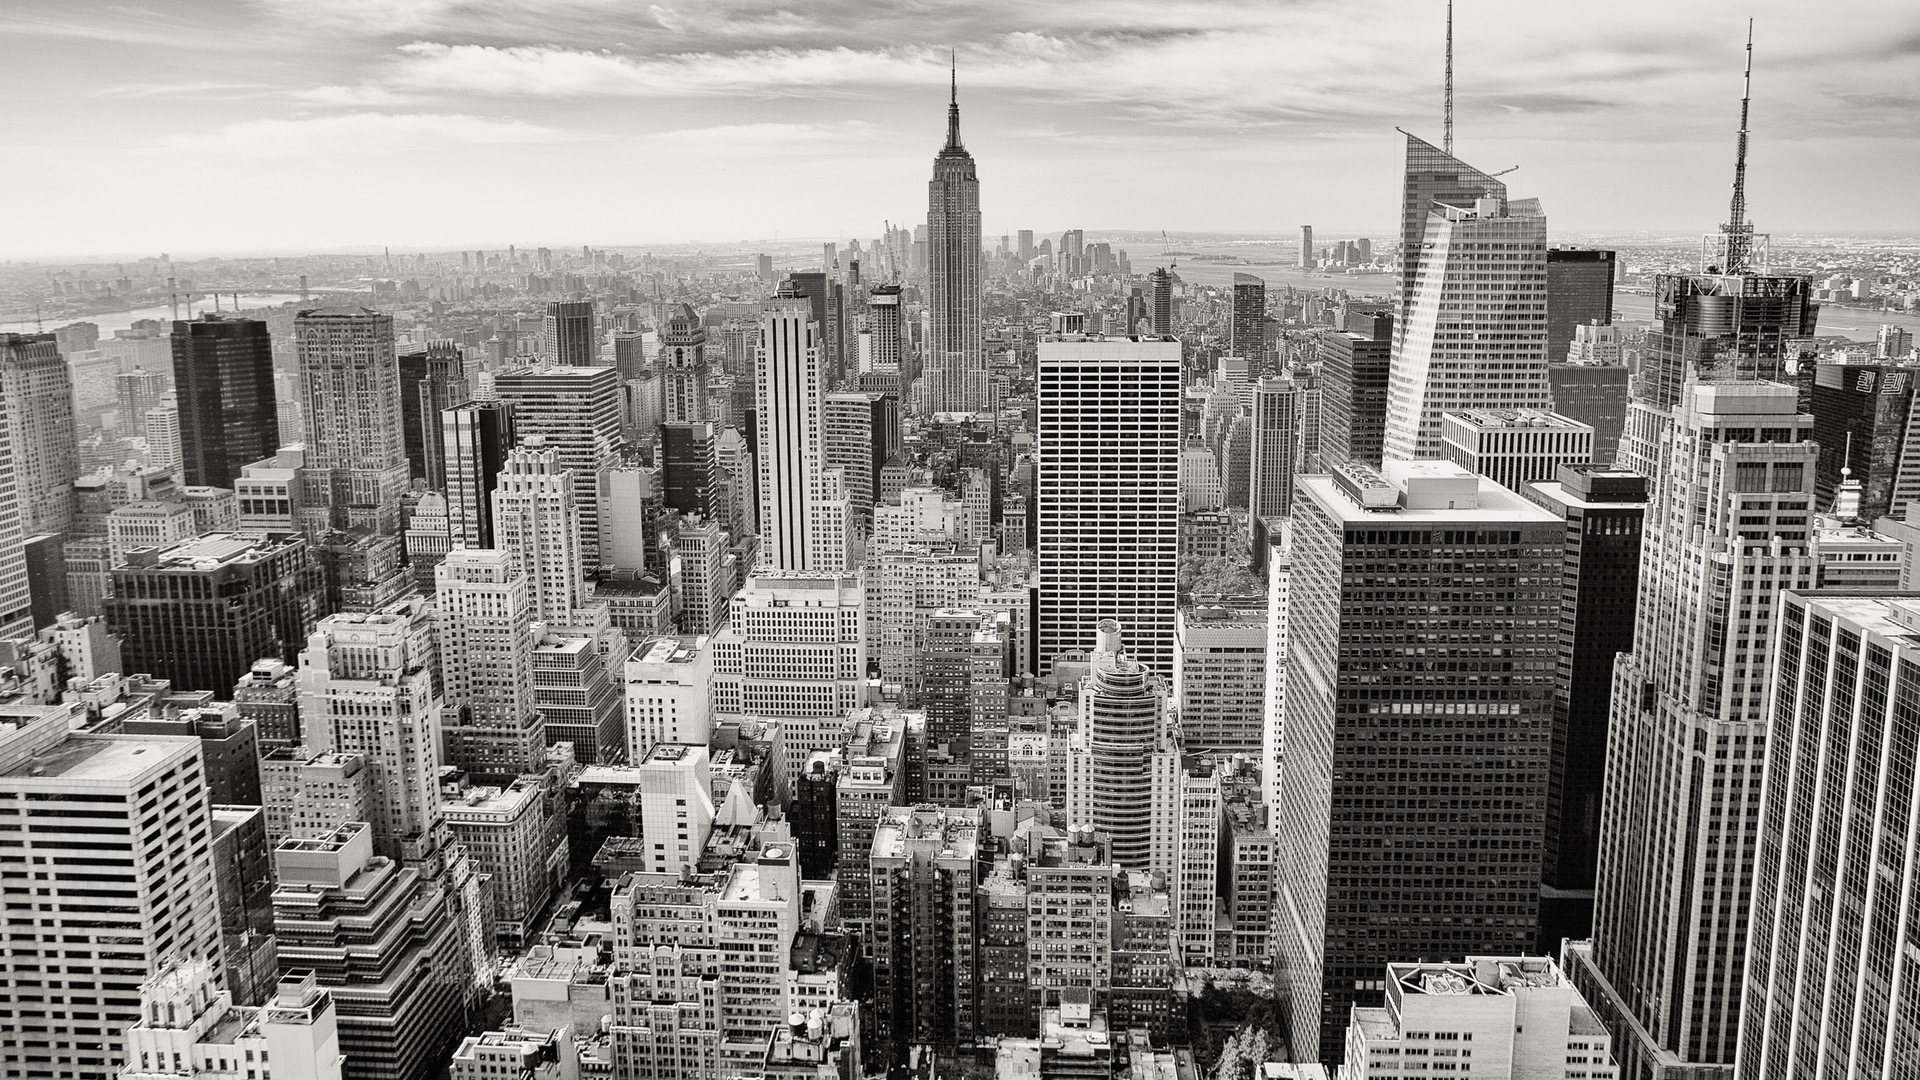
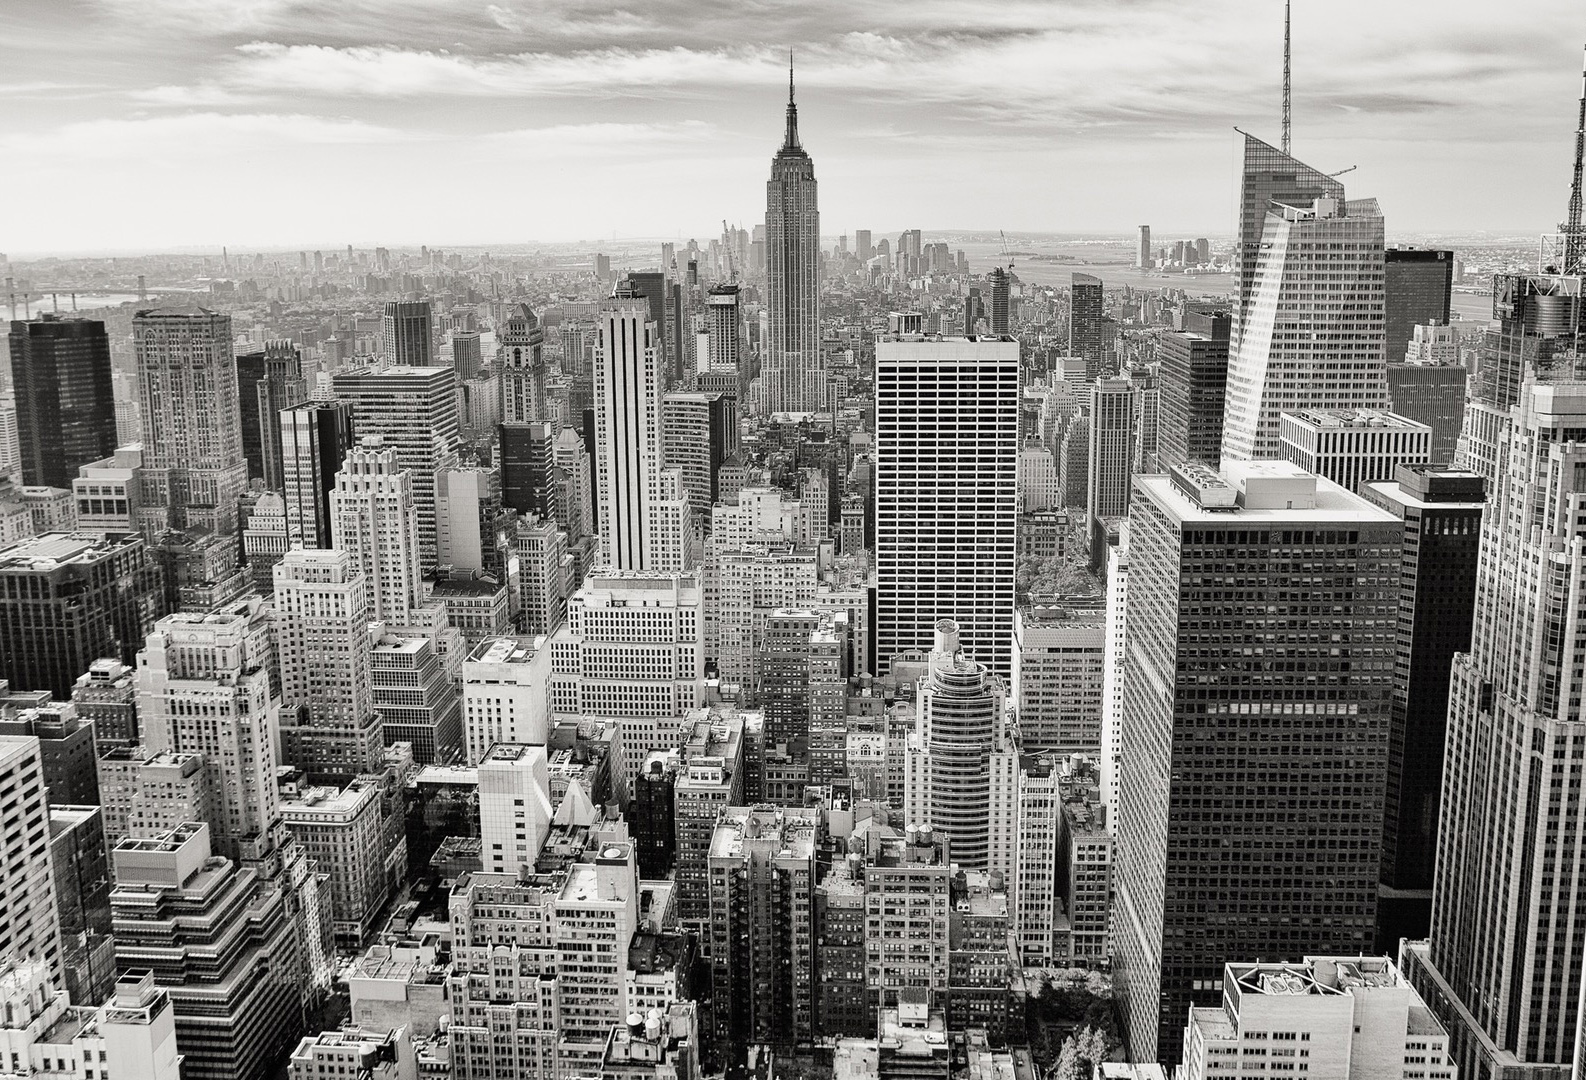
Feat (main) Placed images; styled chat window

diff --git a/src/Pics.js b/src/Pics.js
@@ -1,7 +1,16 @@
 import React, { Component } from 'react';
-import roses from './img/rainbow-roses.jpg';
 import rocks from './img/rock-pile.jpeg';
+import ny from './img/bw-newyork.jpg';
+import children from './img/children.jpg';
+import crafts from './img/crafts.jpg';
+import dock from './img/dock-couple.jpg';
+import food from './img/food.jpg';
+import laugh from './img/laugh.jpg';
+import alone from './img/alone.jpg';
 import runners from './img/track-runners.jpg';
+import didit from './img/did-it.jpg';
+import flowers from './img/flowers.jpg';
+import girl from './img/girl.jpg';
 
 class Pics extends Component {
   // under return (<div>
@@ -11,11 +20,18 @@ class Pics extends Component {
   render() {
     return (
       <div>
-        <div class="row">
-          
-          <div class="col-md-4"><img className="runners" src={runners} alt="Runners on Track" /></div>
-          <div class="col-md-4"><img className="rocks" src={rocks} alt="Pile of rocks" /></div>
-        </div>
+        <img className="life-pics" src={laugh} alt="Runners on Track" />
+        <img className="life-pics" src={girl} alt="Runners on Track" />
+        <img className="life-pics" src={didit} alt="Pile of rocks" />
+        <img className="life-pics" src={flowers} alt="Runners on Track" />
+        <img className="life-pics" src={runners} alt="Runners on Track" />
+        <img className="life-pics" src={rocks} alt="Pile of rocks" />
+        <img className="life-pics" src={alone} alt="Runners on Track" />
+        <img className="life-pics" src={dock} alt="Pile of rocks" />
+        <img className="life-pics" src={ny} alt="Runners on Track" />
+        <img className="life-pics" src={children} alt="Pile of rocks" />
+        <img className="life-pics" src={crafts} alt="Runners on Track" />
+        <img className="life-pics" src={food} alt="Pile of rocks" />
       </div>
     );
   }

diff --git a/src/ChatWindow.js b/src/ChatWindow.js
@@ -44,18 +44,18 @@ class ChatWindow extends Component {
   // }
 
 //++++++++++++
-  showEmoji () {
-  var inputBox = document.getElementById("inputBox");
-  console.log('inputBox', inputBox);
-  var emojiButtons = document.querySelectorAll("Button[className='emoji']");
-  console.log('emojiButtons', emojiButtons);
-  for (let item of emojiButtons) {
-    console.log('item', item);
-    item.addEventListener("click", function () {
-    inputBox.innerHTML = item.value;
-    });
-  }
-}
+//   showEmoji () {
+//   var inputBox = document.getElementById("inputBox");
+//   console.log('inputBox', inputBox);
+//   var emojiButtons = document.querySelectorAll("Button[className='emoji']");
+//   console.log('emojiButtons', emojiButtons);
+//   for (let item of emojiButtons) {
+//     console.log('item', item);
+//     item.addEventListener("click", function () {
+//     inputBox.innerHTML = item.value;
+//     });
+//   }
+// }
 //+++++++++++
 
 
@@ -67,7 +67,8 @@ class ChatWindow extends Component {
     const { items, textInput } = this.state;
     return (
       <div className="chat-container">
-        <h3>Let's Chat</h3>
+        <h2>How do you Celebrate life?</h2>
+        <p>Chat with us about it.</p>
         <ul
           style={{
             padding: 0,
@@ -82,10 +83,10 @@ class ChatWindow extends Component {
         <form onSubmit={this.handleSubmit}>
           <input id="inputBox" onChange={this.handleChange} value={textInput} />
           <br />
-
+          <br />
           <button>Send</button>
         </form>
-        <p>Emoji box here</p>
+        <br />
         <button type="button" onClick="emojiShow()">😀</button>
         <button type="button" onClick="emojiShow()">😉</button>
         <button type="button" onClick="emojiShow()">😘</button>

diff --git a/src/Item.js b/src/Item.js
@@ -6,14 +6,13 @@ export default class Item extends Component {
 
   // <Button onClick={action('clicked')}>😀</Button>
   // <Button onClick={action('clicked')}>{emojify(':smile:')}</Button>
+  // {emojify(':smile: :confused: :cat: :blush:')}
 
   render() {
     const { message, ts } = this.props.item
     return (
       <div>
-        {message}{emojify(':smile: :confused: :cat: :blush:')}
-        <br />
-        Sent: <Timer time={ts}/>
+        <Timer time={ts}/>: {message}
       </div>
     );
   }

diff --git a/src/index.css b/src/index.css
@@ -49,6 +49,11 @@ ul li {
 }
 
 .pics-container{
+  display: flex;
+  flex-direction: row;
+  flex-wrap: wrap;
+  justify-content: flex-end;
+  align-items: center;
   height: 70vh;
   width: 70vw;
   margin: 0px;
@@ -62,16 +67,9 @@ ul li {
   padding: 5px;
 }
 
-.thumbnail {
-
-}
-
-.runners {
-  width: 175px;
-}
-
-.rocks {
-  width: 175px;
+.life-pics {
+  height: 150px;
+  margin: 10px;
 }
 
 .logo {
